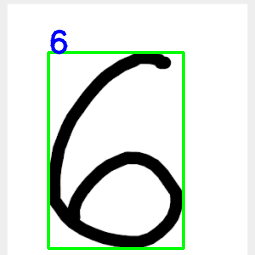
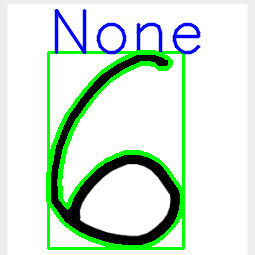
initials

Changed region(s): [[0.1647, 0.0275, 0.7961, 0.9882]]

diff --git a/main.py b/main.py
@@ -78,37 +78,30 @@ def process(filename):
 	print(digit)
 	return digit[0]
 
-if __name__ == "__main__":
-	input_image = '1-10.jpg'
+# if __name__ == "__main__":
+def main(image_name):
+	input_image = image_name
 	image = cv2.imread(input_image)
 	img = cv2.cvtColor(image, cv2.COLOR_BGR2GRAY) 
-	ret, thresh = cv2.threshold(img, 150, 255, cv2.THRESH_BINARY_INV) 
-	# cv2.imshow('Binary Threshold Inverted', thresh) 
+	ret, thresh = cv2.threshold(img, 150, 255, cv2.THRESH_BINARY_INV)
 	contours, hierarchy = cv2.findContours(thresh, cv2.RETR_EXTERNAL, cv2.CHAIN_APPROX_NONE)
-	print("Number of Contours found = " + str(len(contours)))
-	for ctr in contours: 
-		# Get bounding box 
-		if cv2.contourArea(ctr) > 2000:
-			x, y, w, h = cv2.boundingRect(ctr) 
-			print(cv2.contourArea(ctr))
-			# Getting ROI 
-			roi = thresh[y:y+h, x:x+w]  
-			cv2.rectangle(image,(x,y),( x + w, y + h ),(0,255,0),2) 
-			sub_image = thresh[y - 20:y+h + 20, x - 20:x+w + 20]
-			#cv2.waitKey(0) 
-			if w > 15 and h > 15: 
-				# cv2.imshow('sub_image', sub_image)
-				cv2.imwrite('input.' + input_image.split('.')[-1], sub_image)
-				time.sleep(1)
-				digit = process('input.' + input_image.split('.')[-1])
-				cv2.putText(image, str(digit), (x, y), cv2.FONT_HERSHEY_SIMPLEX, 2, (255, 0, 0), 2, cv2.LINE_AA)
+	digit = None
+
+	if len(contours) > 0:
+		c = max(contours, key = cv2.contourArea)
+		x,y,w,h = cv2.boundingRect(c)
+		cv2.rectangle(image,(x,y),( x + w, y + h ),(0,255,0),2)
+		sub_image = thresh[y - 20:y+h + 20, x - 20:x+w + 20]
+		cv2.imwrite('input.' + input_image.split('.')[-1], sub_image)
+		digit = process('input.' + input_image.split('.')[-1])
+		cv2.putText(image, str(digit), (x, y), cv2.FONT_HERSHEY_SIMPLEX, 2, (255, 0, 0), 2, cv2.LINE_AA)
 
 	cv2.drawContours(image, contours, -1, (0, 255, 0), 3)
-	cv2.imshow('contours', image)
-	cv2.imwrite('output.' + input_image.split('.')[-1], image)
-	# process('6_1.png')
-	if cv2.waitKey(0) & 0xff == 27:  
-		cv2.destroyAllWindows()
+	# cv2.imshow('contours', image)
+	# cv2.imwrite('output.' + input_image.split('.')[-1], image)
+	# if cv2.waitKey(0) & 0xff == 27:  
+	# 	cv2.destroyAllWindows()
+	return digit
 	
 
 

diff --git a/app.py b/app.py
@@ -1,0 +1,28 @@
+from flask import Flask, request, redirect, render_template
+from main import main
+import os
+app = Flask(__name__)
+
+
+@app.route('/')
+def hello():
+    return "Hello World!"
+
+@app.route("/image", methods=["GET", "POST"])
+def upload_image():
+
+    if request.method == "POST":
+
+        if request.files:
+
+            image = request.files["image"]
+            image.save(os.path.join('./', image.filename))
+            result = main(image.filename)
+
+            return str(result)
+
+
+    return render_template("public/upload_image.html")
+
+if __name__ == '__main__':
+    app.run()
